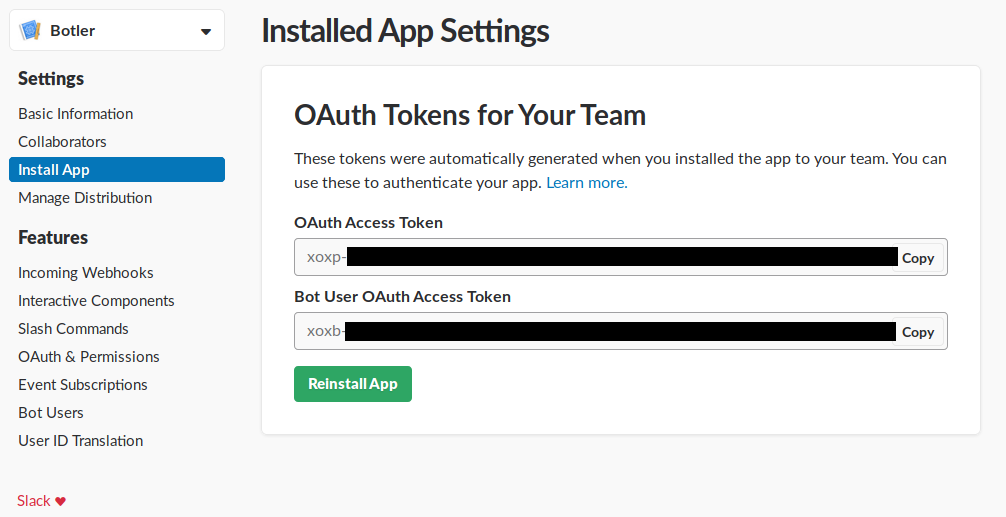
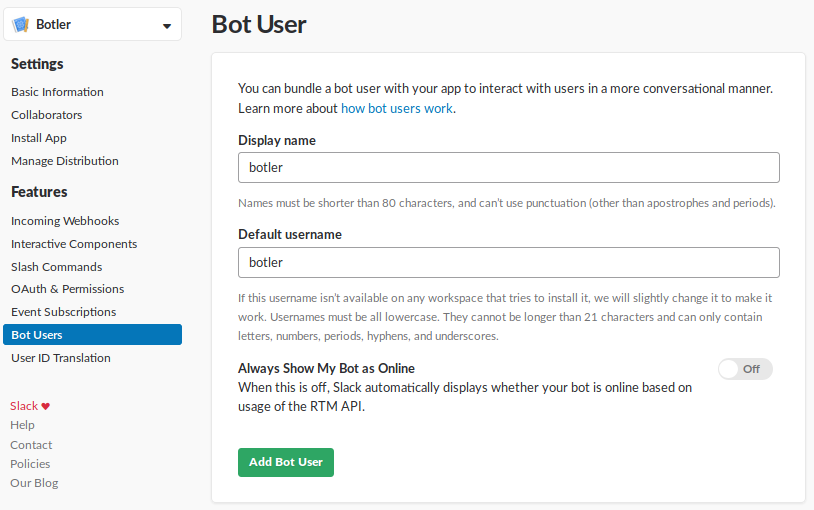
Update README.md

diff --git a/README.md b/README.md
@@ -2,31 +2,32 @@
 
 simple slack bot skeleton.
 
-## Getting Started
+## Start with Slack-apps
 
-Clone this repository: `https://github.com/iSuperMostafa/slack-bot-skeleton.git`
+1. Create a Slack account and workspace or join an existing workspace [here](https://slack.com/create).
+    ![slack-1.png](assets/slack-1.png?raw=true "screenshot #1: create a Slack workspace")
+
+2. Create a Slack app [here](https://api.slack.com/apps).
+    ![slack-2.png](assets/slack-2.png?raw=true "screenshot #2: create a Slack app")
+
+3. Add a Bot User.
+    ![slack-3.png](assets/slack-3.png?raw=true "screenshot #3: Add a Bot User")
+
+4. Install App.
+    ![slack-4.png](assets/slack-4.png?raw=true "screenshot #4: Install App")
+
+5. Integrate your bot with Slack channel
+    ![slack-5.png](assets/slack-5.png?raw=true "screenshot #5: Integrate your bot with Slack channel")
 
 ## Setup the environment
 
-1. Create virtualenv: `virtualenv env`
-2. Activate env: `source env/bin/activate`
-3. Install pipenv: `pip install slackclient`
-
-## Start with Slack-apps
-
-1. create a Slack app [here](https://api.slack.com/apps).
-
-    ![slack#1.png](assets/slack-1.png?raw=true "screenshot #1: create slack app")
-
-2. Add a Bot User.
-
-    ![slack#2.png](assets/slack-2.png?raw=true "screenshot #1: Add a Bot User")
-
-3. Install App.
-
-    ![slack#3.png](assets/slack-3.png?raw=true "screenshot #1: Install App")
-
-4. export secret tokens as environment variables: `export SLACK_BOT_TOKEN='REPLACE_WITH_YOUR_BOT_USER_ACCESS_TOKEN'`
+1. Clone this repository: `https://github.com/iSuperMostafa/slack-bot-skeleton.git`
+2. Navigate to the project directory: `cd slack-bot-skeleton`
+3. Create virtualenv: `virtualenv env`
+4. Activate env: `source env/bin/activate`
+5. Install pipenv: `pip install slackclient`
+6. export secret tokens as environment variables: `export SLACK_BOT_TOKEN='REPLACE_WITH_YOUR_BOT_USER_ACCESS_TOKEN'`
+7. Add your channel name to "channel" at bot/chatbot.py line 7
 
 ## Run the application
 
